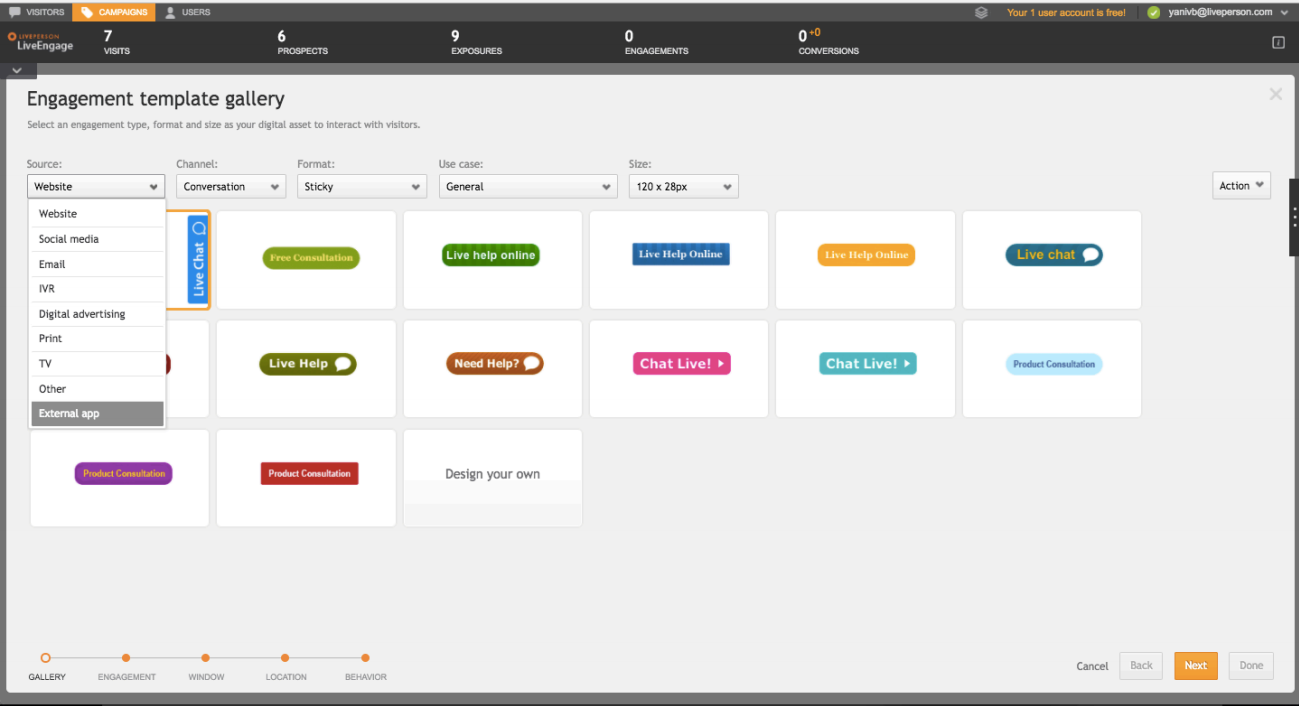
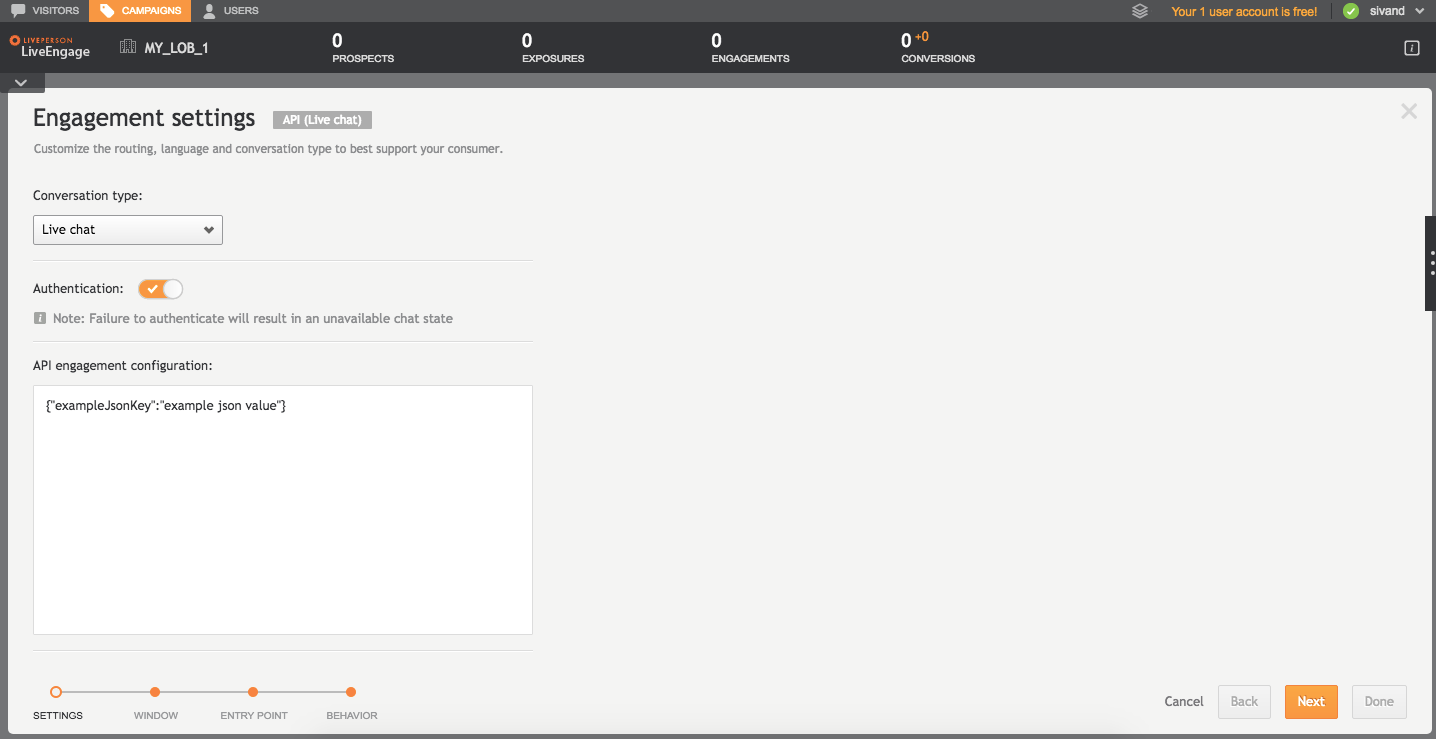
updating customized windows guide

diff --git a/pages/documents/guides/Customized Chat Windows/createanexternalengagement.md b/pages/documents/guides/Customized Chat Windows/createanexternalengagement.md
@@ -1,5 +1,5 @@
 ---
-title: Create an External Engagement
+title: Create an API Engagement
 level1: Documents
 level2: Guides
 level3: Customized Chat Windows
@@ -9,20 +9,29 @@ order: 3
 indicator: chat
 ---
 
-### Step 1 - Create new engagement
-**On the Campaigns page, add a new engagement.**
+### Step 1 - Create a New Engagement
+
+**On the Campaigns page, click "Add engagement" and select the "API" engagement source.**
 
 ![Customized1](img/customized1.png)
 
-### Step 2 - Select engagement source
-**In the engagement template gallery, choose 'External app’ from the Source dropdown menu.**
+### Step 2 - Set engagement settings
+
+**On the API Engagement Settings page, configure the engagement’s properties. Set the "Conversation type" to "Live chat". Choose whether you would like the engagement to be authenticated or unauthenticated (if you choose authenticated, the engagement will be displayed only to authenticated visitors).**
+
+**Below that, the "API Engagement configuration" text area allows you to attach any property to the engagement in a JSON format.**
+
+**Click next.**
+
 
 ![Customized2](img/customized2.png)
 
-### Step 3 - Set engagement properties
-**On the External Engagement Details page, configure the engagement’s properties. The external engagement configuration text area allows you to attach any property to the engagement in a JSON format.**
+### Step 3 - Set engagement window
+
+**On the engagement window library page, select the API-based Window you created in the previous section of this document (in the screenshot, this is the "API Window 1"). Click "next".**
 
 ![Customized3](img/customized3.png)
 
 ### Step 4 - Confirmation
+
 **Click 'Next' and complete the remaining steps to set up your engagement.**
